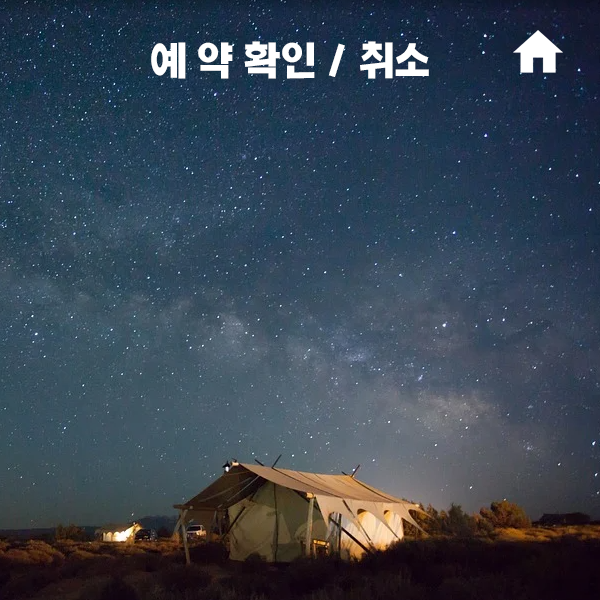
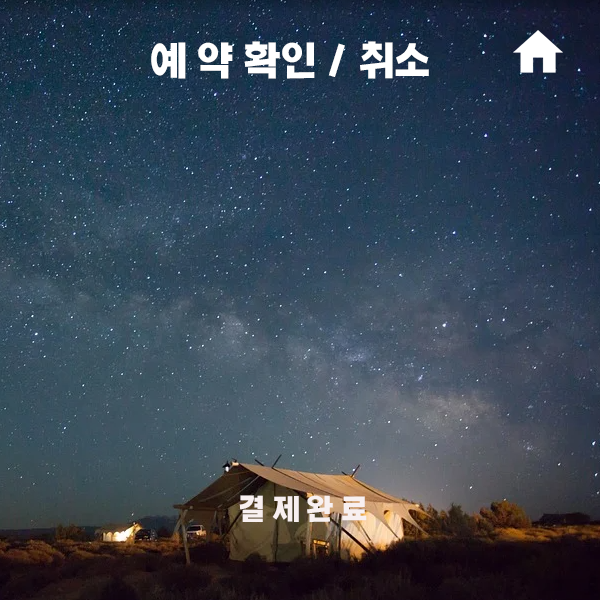
ㅁㄴㅇㄴㅁㅇ

Changed region(s): [[0.39, 0.81, 0.63, 0.87]]

diff --git a/reservation/src/reservation/view/JP_CheckRes.java b/reservation/src/reservation/view/JP_CheckRes.java
@@ -190,9 +190,11 @@ public class JP_CheckRes extends JPanel {
 		lblNewLabel_3_7.setBounds(124, 420, 102, 20);
 		add(lblNewLabel_3_7);
 		
-		JButton bLogin_1 = new JButton("예약취소");
+		JButton bLogin_1 = new JButton("");
 		bLogin_1.setFont(new Font("맑은 고딕", Font.PLAIN, 12));
-		bLogin_1.setBounds(238, 501, 97, 23);
+		bLogin_1.setBounds(238, 501, 130, 31);
+		bLogin_1.setContentAreaFilled(false);
+		bLogin_1.setBorderPainted(false);
 		add(bLogin_1);
 		
 		JLabel lblNewLabel = new JLabel("사이트명");
